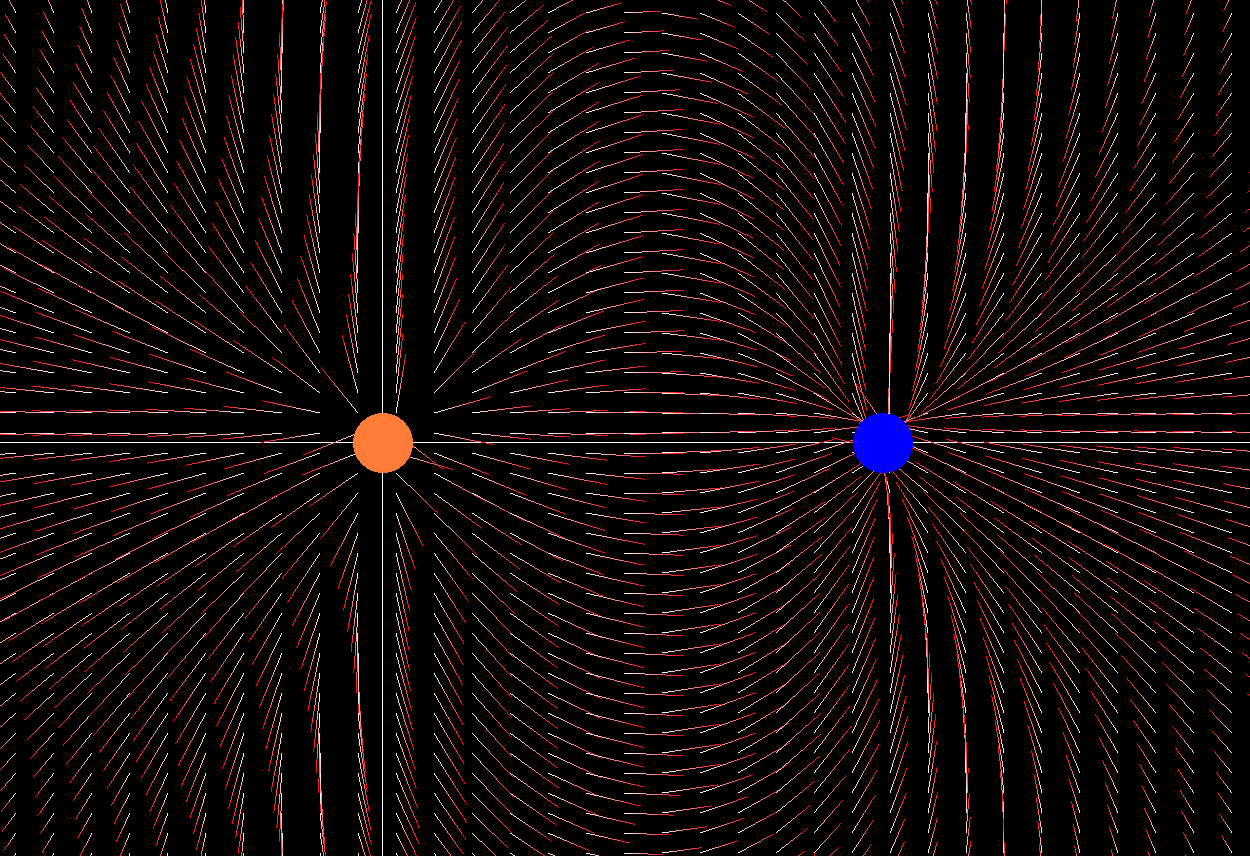
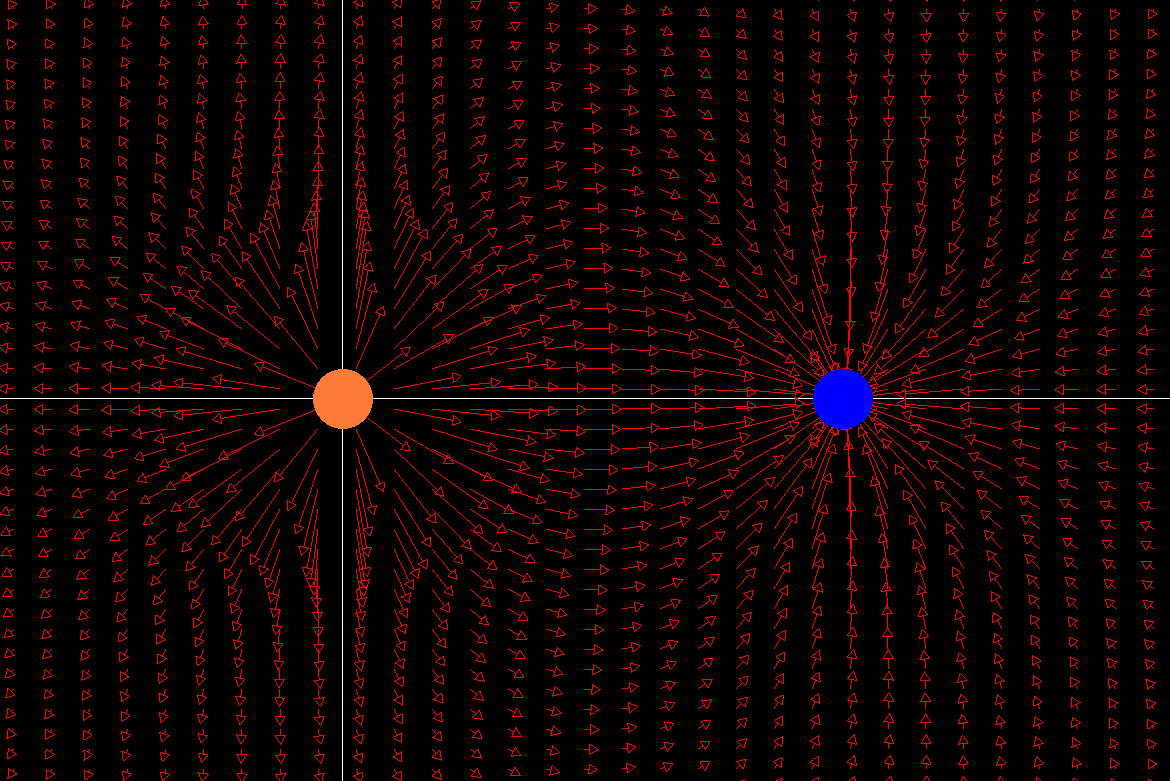
arregle las puntas de las flechas

Changed region(s): [[0.0, 0.0, 1.0, 1.0]]

diff --git a/src/main.cpp b/src/main.cpp
@@ -1163,23 +1163,6 @@ void calcularCampoElectrico(std::vector<std::vector<sf::Vector2f>> *vectorCE,std
                     vectorCampoElectrico.x += (vectorCampoElectricoAux.x);
                     vectorCampoElectrico.y += (vectorCampoElectricoAux.y);
                 }
-                if(i==13 && j==24){
-                    std::cout<<"cantidad de cuadriculas y"<<cant_cuadriculas.y<<std::endl;
-                    std::cout<<"LArgo "<<_LARGO<<std::endl;
-                    std::cout<<"largo cuad "<<largoCuadriculado<<std::endl;
-
-                    std::cout<<"a calcular X: "<<x_calcular<<std::endl;
-                    std::cout<<"a calcular Y "<<y_calcular<<std::endl;
-                    std::cout<<"distancia Total: "<<distanciaTotal<<std::endl;
-                    std::cout<<"distancia X: "<<distanciaX<<std::endl;
-                    std::cout<<"distnaica Y: "<<distanciaY<<std::endl;
-                    std::cout<<"pos X: "<<cargasFijas[k]->x<<std::endl;
-                    std::cout<<"pos  Y: "<<cargasFijas[k]->y<<std::endl;
-
-                    std::cout<<"Componente X: "<<vectorCampoElectrico.x<<std::endl;
-                    std::cout<<"Componente Y: "<<vectorCampoElectrico.y<<std::endl;
-
-                }
             }
             fila.push_back(vectorCampoElectrico);
         }
@@ -1192,6 +1175,7 @@ void calcularCampoElectrico(std::vector<std::vector<sf::Vector2f>> *vectorCE,std
 void drawVectoresCE(sf::RenderWindow &window,std::vector<std::vector<sf::Vector2f>> *vectorCE){
     int k=0; int var=0;
     float largoFlecha = 5;
+    float ANG_ataqueFlecha=30;
     for(int i=1;i<cant_cuadriculas.x;i++){
         for(int j=1;j<cant_cuadriculas.y;j++,k++){
             sf::Vector2f origen((i-1)*(_ANCHO/cant_cuadriculas.x) + (_ANCHO/cant_cuadriculas.x)/2,(j-1)*(_LARGO/cant_cuadriculas.y) + (_LARGO/cant_cuadriculas.y)/2);       
@@ -1214,36 +1198,20 @@ void drawVectoresCE(sf::RenderWindow &window,std::vector<std::vector<sf::Vector2
             vectores[4].color = sf::Color::Red;
             vectores[2].position = {destino.x-largoFlecha*cos(nuevoAngulo),destino.y-largoFlecha*sin(nuevoAngulo)};
             vectores[2].color = sf::Color::Red;
-            float nuevoAngulo2 = (60 + (anguloHorizontal))*(M_PI/180);
+            float nuevoAngulo2 = (ANG_ataqueFlecha + (anguloHorizontal))*(M_PI/180);
             if((*vectorCE)[i-1][j-1].x>0){
-                nuevoAngulo2=(60 + (anguloHorizontal))*(M_PI/180);
-                vectores[3].position = {vectores[2].position.x + largoFlecha*cos(nuevoAngulo2),vectores[2].position.y + largoFlecha*sin(nuevoAngulo2)};
+                nuevoAngulo2=(ANG_ataqueFlecha + (anguloHorizontal))*(M_PI/180);
+                vectores[3].position = {vectores[2].position.x + largoFlecha*2*cos(nuevoAngulo2),vectores[2].position.y + largoFlecha*2*sin(nuevoAngulo2)};
                 vectores[3].color = sf::Color::Red;
             }else{
-                nuevoAngulo2=(-60+(anguloHorizontal))*(M_PI/180);
-                vectores[3].position = {vectores[2].position.x - largoFlecha*cos(nuevoAngulo2),vectores[2].position.y - largoFlecha*sin(nuevoAngulo2)};
+                nuevoAngulo2=(-ANG_ataqueFlecha+(anguloHorizontal))*(M_PI/180);
+                vectores[3].position = {vectores[2].position.x - (largoFlecha*2)*cos(nuevoAngulo2),vectores[2].position.y - (largoFlecha*2)*sin(nuevoAngulo2)};
                 vectores[3].color = sf::Color::Red;
             }
             
             vectores[5].position = destino;
             vectores[5].color = sf::Color::Red;
 
-             if(i==13 && j==24){
-                    std::cout<<"Angulo Horizontal degrre"<<anguloHorizontal<<std::endl;
-                    std::cout<<"Angulo Horizontal RAD"<<anguloHorizontal*(M_PI/180)<<std::endl;
-                    std::cout<<"modulo "<<modulo<<std::endl;
-                    std::cout<<"nuevoAngulo degre"<<nuevoAngulo2*(180/M_PI)<<std::endl;
-                    std::cout<<"nuevoAngulo RAD"<<nuevoAngulo2<<std::endl;
-
-                    std::cout<<"coseno nuevo angulo "<<cos(nuevoAngulo2)<<std::endl;
-                    std::cout<<"seno nuevo angulo"<<sin(nuevoAngulo2)<<std::endl;
-                    std::cout<<"largo * cos "<<largoFlecha*cos(nuevoAngulo2)<<std::endl;
-                    std::cout<<"lago * sen"<<(largoFlecha*sin(nuevoAngulo2))<<std::endl;
-                    std::cout<<"POS X "<<vectores[2].position.x - largoFlecha*cos(nuevoAngulo2)<<std::endl;
-                    std::cout<<"POS Y "<<vectores[2].position.x - largoFlecha*sin(nuevoAngulo2)<<std::endl;
-        
-
-                }
            
             if(calcularDistancia(origen.x,origen.y,destino.x,destino.y)>60){
               
@@ -1258,14 +1226,14 @@ void drawVectoresCE(sf::RenderWindow &window,std::vector<std::vector<sf::Vector2
                 vectores[4].color = sf::Color::Red;
                 vectores[2].position = {vectores[1].position.x-largoFlecha*cos(nuevoAngulo),vectores[1].position.y-largoFlecha*sin(nuevoAngulo)};
                 vectores[2].color = sf::Color::Red;
-                float nuevoAngulo2 = (60 + (anguloHorizontal))*(M_PI/180);
+                float nuevoAngulo2 = (ANG_ataqueFlecha + (anguloHorizontal))*(M_PI/180);
                 if((*vectorCE)[i-1][j-1].x>0){
-                    nuevoAngulo2=(60 + (anguloHorizontal))*(M_PI/180);
-                    vectores[3].position = {vectores[2].position.x + largoFlecha*cos(nuevoAngulo2),vectores[2].position.y + largoFlecha*sin(nuevoAngulo2)};
+                    nuevoAngulo2=(ANG_ataqueFlecha + (anguloHorizontal))*(M_PI/180);
+                    vectores[3].position = {vectores[2].position.x + largoFlecha*2*cos(nuevoAngulo2),vectores[2].position.y + largoFlecha*2*sin(nuevoAngulo2)};
                     vectores[3].color = sf::Color::Red;
                 }else{
-                    nuevoAngulo2=(-60+(anguloHorizontal))*(M_PI/180);
-                    vectores[3].position = {vectores[2].position.x - largoFlecha*cos(nuevoAngulo2),vectores[2].position.y - largoFlecha*sin(nuevoAngulo2)};
+                    nuevoAngulo2=(-ANG_ataqueFlecha+(anguloHorizontal))*(M_PI/180);
+                    vectores[3].position = {vectores[2].position.x - (largoFlecha*2)*cos(nuevoAngulo2),vectores[2].position.y - (largoFlecha*2)*sin(nuevoAngulo2)};
                     vectores[3].color = sf::Color::Red;
                 }
                 
